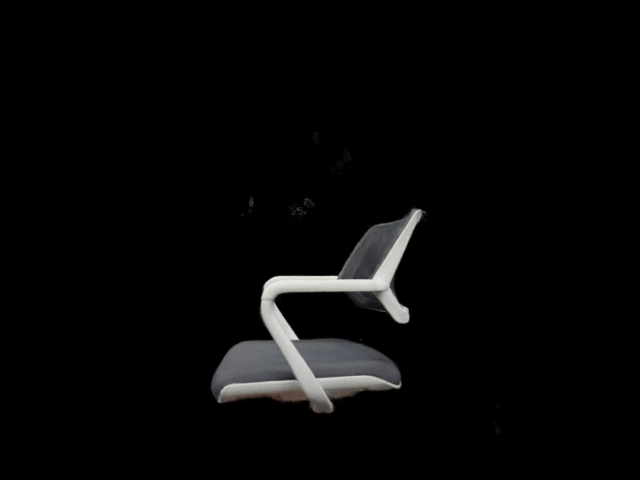
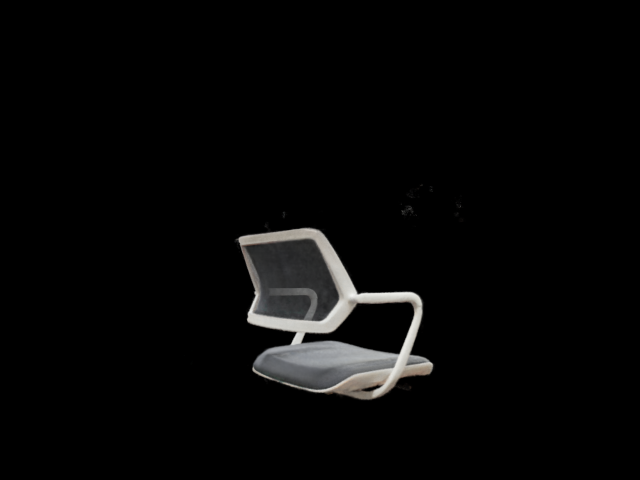
Further preparation for real-world data

Changed region(s): [[0.3125, 0.4375, 0.6875, 0.875]]

diff --git a/pose_estimation/pose_estimation.py b/pose_estimation/pose_estimation.py
@@ -22,15 +22,26 @@ using Marching Primitives to split the target object into sq's
 # TODO: Add argument parser here
 def estimate_camera_pose(img_file, img_dir, images_reference_list, \
                          mesh, camera_pose_gt, \
+                         camera_gt_proj = None,
                          image_type = 'outdoor',\
                             visualization = False):
     '''
     Input:
     img_file: full name of the image file, where a custom camera is placed
     img_dir: directory of all reference images, as well as one json to record their poses
+
     images_reference_list: reference images
+    If camera_pose_gt is given, the length will be 1, and the camera pose of the frame
+    is given in camera_pose_git
+    If camera_pose_gt is not given, the length will be >= 1, and the camera poses of the
+    frames will be found in json file
+
     mesh: mesh file to use in estimating depth
-    camera_pose_gt: debugging purpose
+
+    camera_pose_gt: GT of the camera pose related to the reference image
+    If empty, the program will try to find the values in json file instead
+    camer_gt_proj: intrinsics of the camera
+
     image_type: type of the image; used in LoFTR
 
     Output:
@@ -50,24 +61,55 @@ def estimate_camera_pose(img_file, img_dir, images_reference_list, \
     else:
         raise ValueError("Wrong image_type is given.")
     matcher = matcher.eval().cuda()
-    print("===Closest Image==")
-    # Find the closest reference image to the the sample image w.r.t number of matches
-    image_name_reference = image_select_closest(img_file, images_reference_list, \
-                                img_dir, matcher)
-    print(image_name_reference)
-    # Determine the pixel coordinates of the point matches
-    pixel_coords_img, pixel_coords_ref = match_coords(img_dir + img_file, \
-                                                      img_dir + image_name_reference, \
-                                matcher, th = 0.5, scale_restore=True, save_fig = False)
-    ######
-    ## Part II: Estimate Camera pose of sampled image
-    ######
-    ## 2D-3D Matches by Raycasting on the Scene
-    # Obtain the directinal vectors of the selected points
-    ray_dir, camera_pose_ref, camera_proj_img, nerf_scale = \
-        dir_point_on_image(img_dir, image_name_reference, pixel_coords_ref)
+    if camera_pose_gt is None:
+        print("===Closest Image==")
+        # Find the closest reference image to the the sample image w.r.t number of matches
+        image_name_reference = image_select_closest(img_file, images_reference_list, \
+                                    img_dir, matcher)
+        print(image_name_reference)
 
-   
+        # Determine the pixel coordinates of the point matches
+        pixel_coords_img, pixel_coords_ref = match_coords(img_dir + img_file, \
+                                                        img_dir + image_name_reference, \
+                                    matcher, th = 0.5, scale_restore=True, save_fig = False)
+        ######
+        ## Part II: Estimate Camera pose of sampled image
+        ######
+        ## 2D-3D Matches by Raycasting on the Scene
+        # Obtain the directinal vectors of the selected points
+        ray_dir, camera_pose_ref, camera_proj_img, nerf_scale = \
+            dir_point_on_image(img_dir, image_name_reference, pixel_coords_ref)
+
+    else:
+        image_name_reference = images_reference_list[0]
+        # Determine the pixel coordinates of the point matches
+        pixel_coords_img, pixel_coords_ref = match_coords(img_dir + img_file, \
+                                                        img_dir + image_name_reference, \
+                                    matcher, th = 0.5, scale_restore=True, save_fig = False)
+        ######
+        ## Part II: Estimate Camera pose of sampled image
+        ######
+        # If the camera_pose_gt is already given, take it as the reference
+        camera_pose_ref = camera_pose_gt
+        # Also, read the projection 
+        camera_proj_img = camera_gt_proj
+        # nerf_scale is not used within this program in such case
+        nerf_scale = 1
+
+        # Copy the codes to obtain the ray directions
+        a, b, c = camera_proj_img[0, 0:3]
+        d, e, f = camera_proj_img[1, 0:3]
+        M = np.array([[e, -b], [-d, a]])/(a*e-b*d)
+        N = np.array([[b*f-c*e], [c*d-a*f]])/(a*e-b*d)
+        points_xy = np.matmul(M, pixel_coords_ref.T) + N
+        points_camera = np.vstack((points_xy, np.ones(points_xy.shape[1])))
+        ## Part V: Normalize the directional vectors & Convert them into world frame
+        dir_norm = np.linalg.norm(points_camera, axis=0)
+        dir_camera = points_camera / dir_norm
+        dir_world = np.matmul(camera_pose_ref, \
+                    np.vstack((dir_camera, np.zeros(dir_camera.shape[1]))))
+        ray_dir = (dir_world[0:3, :]).T
+
 
     # Obtain the distances & positions of the selected points
     pos, dist  = point_select_in_space(camera_pose_ref, ray_dir, mesh)
@@ -88,12 +130,6 @@ def estimate_camera_pose(img_file, img_dir, images_reference_list, \
     # If the user hopes to see the visualization
     if visualization:
         # Plot out the camera frame
-        if not camera_pose_gt is None:
-            camera_frame = o3d.geometry.TriangleMesh.create_coordinate_frame()
-            camera_frame.scale(20/64, [0, 0, 0])
-            camera_frame.transform(camera_pose_gt)
-            camera_frame.paint_uniform_color((0, 1, 0))
-
         camera_frame_est = o3d.geometry.TriangleMesh.create_coordinate_frame()
         camera_frame_est.scale(20/64, [0, 0, 0])
         camera_frame_est.transform(camera_pose_est)
@@ -117,9 +153,6 @@ def estimate_camera_pose(img_file, img_dir, images_reference_list, \
         vis= o3d.visualization.Visualizer()
         vis.create_window()
         vis.add_geometry(mesh)
-
-        if not camera_pose_gt is None:
-            vis.add_geometry(camera_frame)
         
         vis.add_geometry(camera_frame_est)
         vis.add_geometry(pcd)
@@ -129,7 +162,7 @@ def estimate_camera_pose(img_file, img_dir, images_reference_list, \
         # Close all windows
         vis.destroy_window()
 
-    return camera_pose_est, nerf_scale
+    return camera_pose_est, camera_proj_img, nerf_scale
 
 
 

diff --git a/test_setup.py b/test_setup.py
@@ -292,38 +292,19 @@ if __name__ == "__main__":
          os.listdir(nerf_dataset + "/images")]# All images under foler "images"
     mesh_filename = nerf_dataset + "/target_obj.obj"
     mesh = o3d.io.read_triangle_mesh(mesh_filename)
-    camera_pose_gt = np.array([
-        [
-          0.3288268137685253,
-          -0.47246782519371655,
-          0.8177084326161024,
-          3.4995952980181464
-        ],
-        [
-          0.9436957092008466,
-          0.13118628743264144,
-          -0.3036915646276309,
-          -1.5575937599487182
-        ],
-        [
-          0.0362123595920231,
-          0.8715298688020476,
-          0.48900342827736343,
-          1.9588267493064477
-        ],
-        [
-          0.0,
-          0.0,
-          0.0,
-          1.0
-        ]
-      ])
-    camera_pose_gt = np.matmul(camera_pose_gt, \
-            np.array([[1, 0, 0, 0], [0, -1, 0, 0], [0, 0, -1, 0], [0, 0, 0, 1]]))
-    camera_pose_est, nerf_scale = \
+
+    camera_pose_est, camera_proj_img, nerf_scale = \
                 estimate_camera_pose("/" + img_file, img_dir, images_reference_list, \
-                         mesh, camera_pose_gt, \
+                         mesh, None, \
                          image_type = 'outdoor', visualization = options.visualization)
+    # NOTE: Manually correct the pose? (the estimated pose is always slightly lower
+        # than the actual one, it seems)
+    camera_pose_est = camera_pose_est + np.array(
+        [[0, 0, 0, 0],
+        [0, 0, 0, 0],
+        [0, 0, 0, nerf_scale*0.05],
+        [0, 0, 0, 0]]
+    )
     # nerf_scale = 2.55
     ## TODO: To test the performance of contact graspnet under different camera poses, 
     ## there is indeed a need to specify camera_pose_est at different poses
@@ -353,8 +334,7 @@ if __name__ == "__main__":
     # Setting current transformation matrix.
     camera_pose_est = np.matmul(camera_pose_est, \
             np.array([[1, 0, 0, 0], [0, -1, 0, 0], [0, 0, -1, 0], [0, 0, 0, 1]]))
-    camera_pose_gt = np.matmul(camera_pose_gt, \
-            np.array([[1, 0, 0, 0], [0, -1, 0, 0], [0, 0, -1, 0], [0, 0, 0, 1]]))
+   
     testbed.set_nerf_camera_matrix(camera_pose_est[:-1])
     # Formally take a picture at that pose
     frame = testbed.render(resolution[0],resolution[1],8,linear=False)
@@ -365,8 +345,7 @@ if __name__ == "__main__":
     # Restore the frame convention (in open3d)
     camera_pose_est = np.matmul(camera_pose_est, \
             np.array([[1, 0, 0, 0], [0, -1, 0, 0], [0, 0, -1, 0], [0, 0, 0, 1]]))
-    camera_pose_gt = np.matmul(camera_pose_gt, \
-            np.array([[1, 0, 0, 0], [0, -1, 0, 0], [0, 0, -1, 0], [0, 0, 0, 1]]))
+   
     #####
     ## Part II: Embed grasp pose estimation into the pipeline
     #####

diff --git a/find_chair_go.py b/find_chair_go.py
@@ -567,12 +567,19 @@ def find_chair_go(options):
             os.listdir(options.nerf_model + "/images")]# All images under foler "images"
         mesh_filename = os.path.join(options.nerf_model , "target_obj.obj")
         mesh = o3d.io.read_triangle_mesh(mesh_filename)
-        camera_pose_est, nerf_scale = \
+        camera_pose_est, camera_proj_img, nerf_scale = \
                 estimate_camera_pose("/pose_estimation_masked_rgb.png", options.nerf_model, \
                                      images_reference_list, \
                          mesh, None, \
                          image_type = 'outdoor', visualization = options.visualization)
-        
+        # NOTE: Manually correct the pose? (the estimated pose is always slightly higher
+        # than the actual one, it seems)
+        camera_pose_est += np.array(
+            [[0, 0, 0, 0],
+            [0, 0, 0, 0],
+            [0, 0, 0, nerf_scale*0.03],
+            [0, 0, 0, 0]]
+        )
         # The reference to the file storing the previous predicted superquadric parameters
         suffix = options.nerf_model.split("/")[-1]
         stored_stats_filename = "./grasp_pose_prediction/Marching_Primitives/sq_data/" + suffix + ".p"

diff --git a/grasp_pose_prediction/grasp_sq_mp.py b/grasp_pose_prediction/grasp_sq_mp.py
@@ -136,7 +136,7 @@ def grasp_pose_eval_gripper(mesh, sq_closest, grasp_poses, gripper_attr, \
 def predict_grasp_pose_sq(camera_pose, \
                           mesh, csv_filename, \
                           normalize_stats, stored_stats_filename, \
-                            gripper_attr, args, grasp_pose_num_th = 0):
+                            gripper_attr, args):
     '''
     Input:
     camera_pose: pose of the camera
@@ -242,9 +242,9 @@ def predict_grasp_pose_sq(camera_pose, \
             grasp_pose_eval_gripper(mesh, sq_closest, grasp_poses, gripper_attr, \
                                     csv_filename, args.visualization)
         
-        if len(grasp_poses_world) >= grasp_pose_num_th: 
+        if len(grasp_poses_world) != 0: 
             # If a valid grasp pose is found
-            print("Find enough valid Grasp Pose!")
+            print("Find one valid Grasp Pose!")
             break
         else: # If no good grasp pose is found, go to the next closest superquadric
             print("Failed to Find one valid Grasp Pose!")
